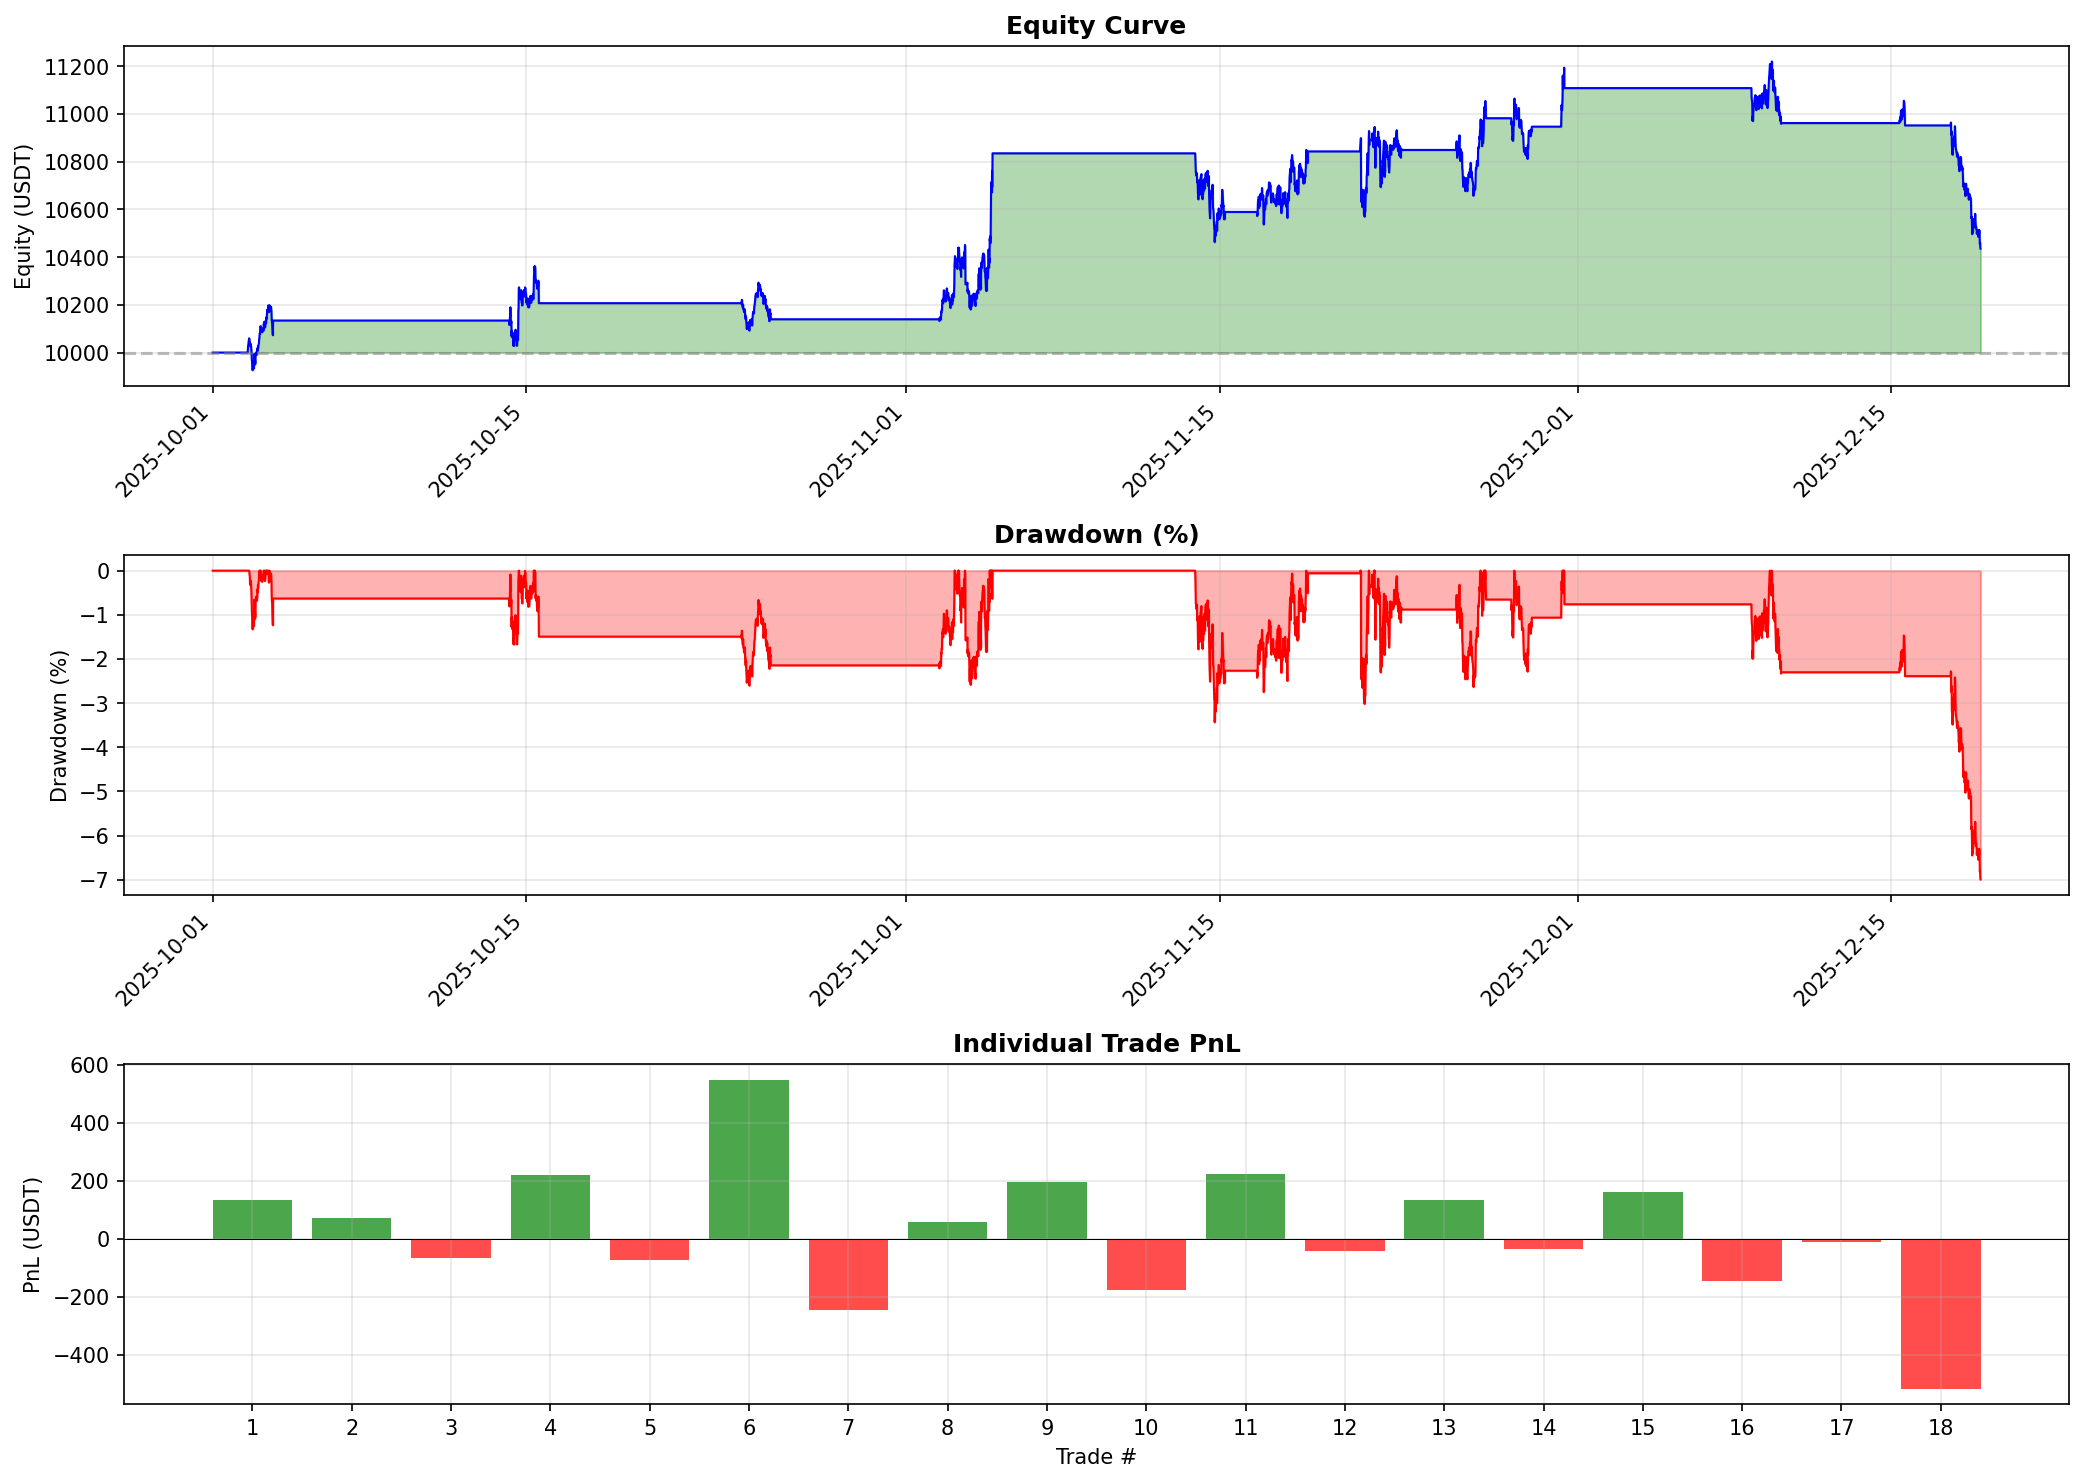
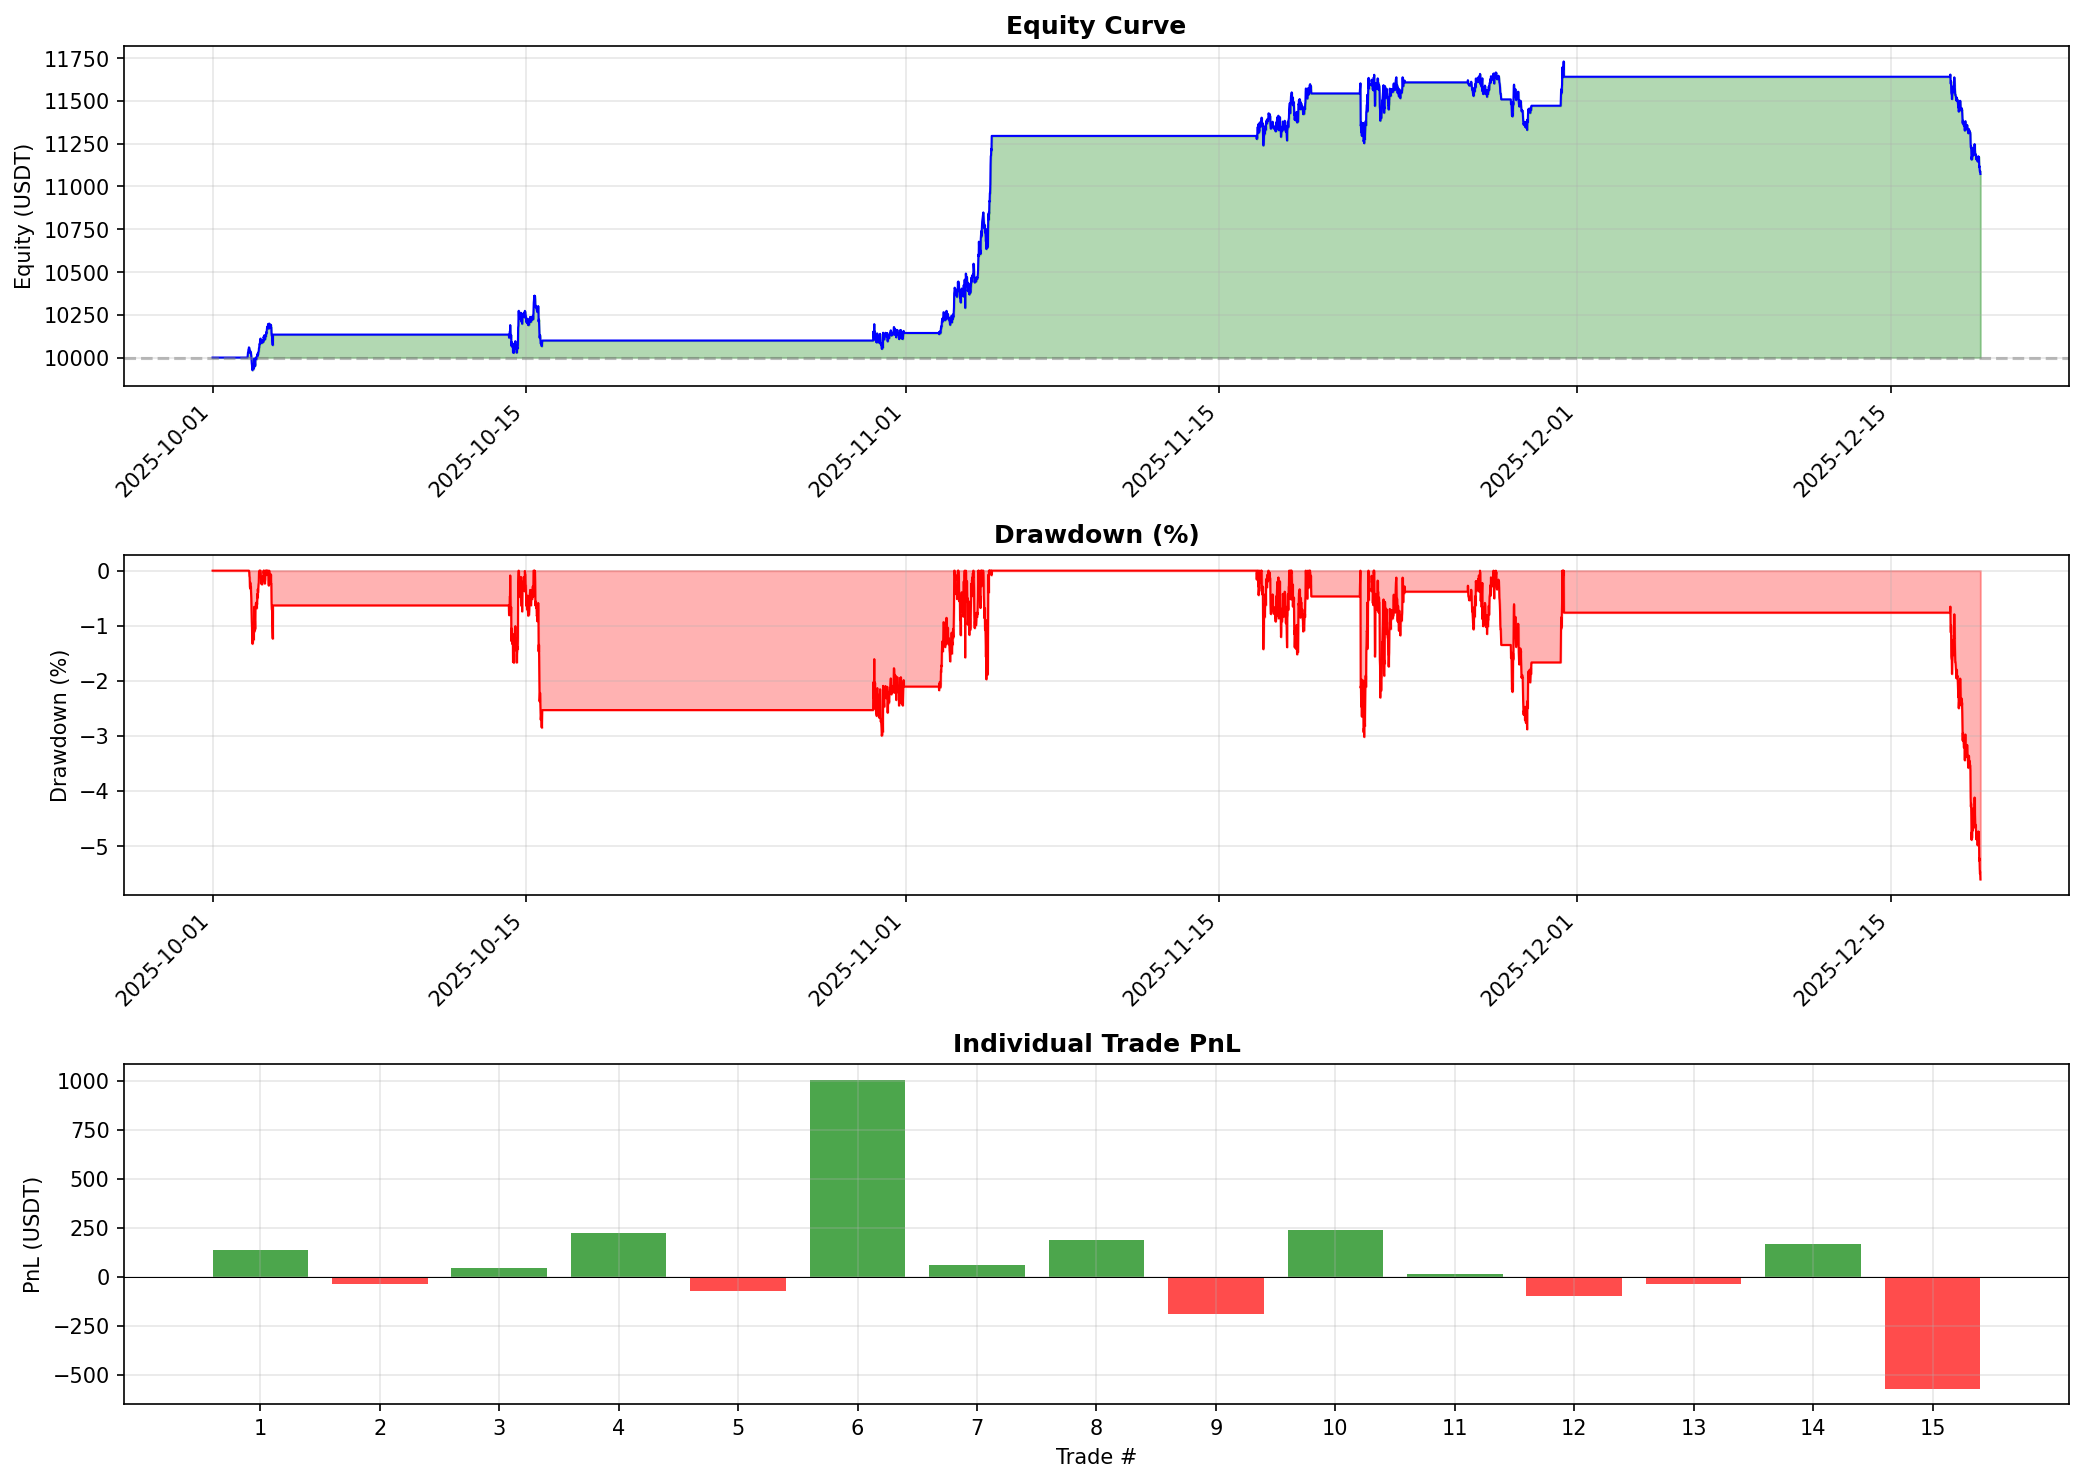
upd emoji, max_position_bars > 144 (36 hours)

diff --git a/run_backtest.py b/run_backtest.py
@@ -63,7 +63,7 @@ class BacktestConfig:
 
     # Maximum position duration before forced exit (in bars)
     # 96 bars = 24 hours for 15m timeframe
-    max_position_bars: int = 128  # 24 hours
+    max_position_bars: int = 144  # 36 hours
 
 
 @dataclass
@@ -459,16 +459,16 @@ class StatArbBacktest:
 
         is_mean_reverting = self.hurst_filter_service.is_mean_reverting(hurst)
 
-        if not is_mean_reverting:
+        if is_mean_reverting:
             print(
-                f"  ⚠  {symbol} Hurst={hurst:.3f} > {self.hurst_filter_service.threshold} "
-                f"(trending spread, skip entry)"
-            )
-        else:
-            print(
-                f"  ✅ {symbol} Hurst={hurst:.3f} < {self.hurst_filter_service.threshold} "
+                f"▶ {symbol} Hurst={hurst:.3f} < {self.hurst_filter_service.threshold} "
                 f"(mean-reverting, allow entry)"
             )
+        # else:
+        #     print(
+        #         f"  ⚠  {symbol} Hurst={hurst:.3f} > {self.hurst_filter_service.threshold} "
+        #         f"(trending spread, skip entry)"
+        #     )
 
         return is_mean_reverting
 
@@ -735,8 +735,10 @@ class StatArbBacktest:
                 f"(until {unlock_time.strftime('%H:%M')})"
             )
 
+        emoji = "✅" if pnl >= 0 else "❌"
+
         print(
-            f"CLOSE {position.side.upper()} SPREAD {symbol} | "
+            f"{emoji} CLOSE {position.side.upper()} SPREAD {symbol} | "
             f"PnL: ${pnl:.2f} ({trade.pnl_pct:+.2f}%) | "
             f"Coin: {coin_pct_change*100:+.2f}% | "
             f"Primary: {primary_pct_change*100:+.2f}% | "
